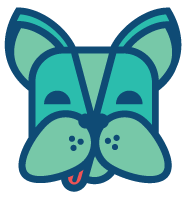
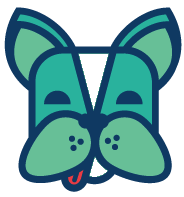
WIP: onWin method
gave all the pups some white features

Changed region(s): [[0.4348, 0.2741, 0.5978, 0.5482], [0.4891, 0.7919, 0.5978, 0.9137], [0.3804, 0.8528, 0.462, 0.9442]]

diff --git a/public/scripts/app.js b/public/scripts/app.js
@@ -170,7 +170,7 @@ $(document).ready(function() {
           console.log(p1.loc);
           let square = document.querySelector(p1.loc);
           if (p1.loc === trgt.loc) {
-            //removeChild(end)
+            count = 1;
             square.removeChild(end);
           }
           square.appendChild(dog);
@@ -270,14 +270,20 @@ $(document).ready(function() {
       return this.calcColMax();
     }
     calcRowMax() {
-      if (this.level === 1) {
+      if (this.level < 4) {
         return 3;
       }
     }
     calcColMax() {
-      if (this.level === 1) {
+      if (this.level < 4) {
         return 3;
       }
+    }
+    get onWin() {
+      return this.win();
+    }
+    win() {
+      return this.score = this.score + 100;
     }
   }
 
